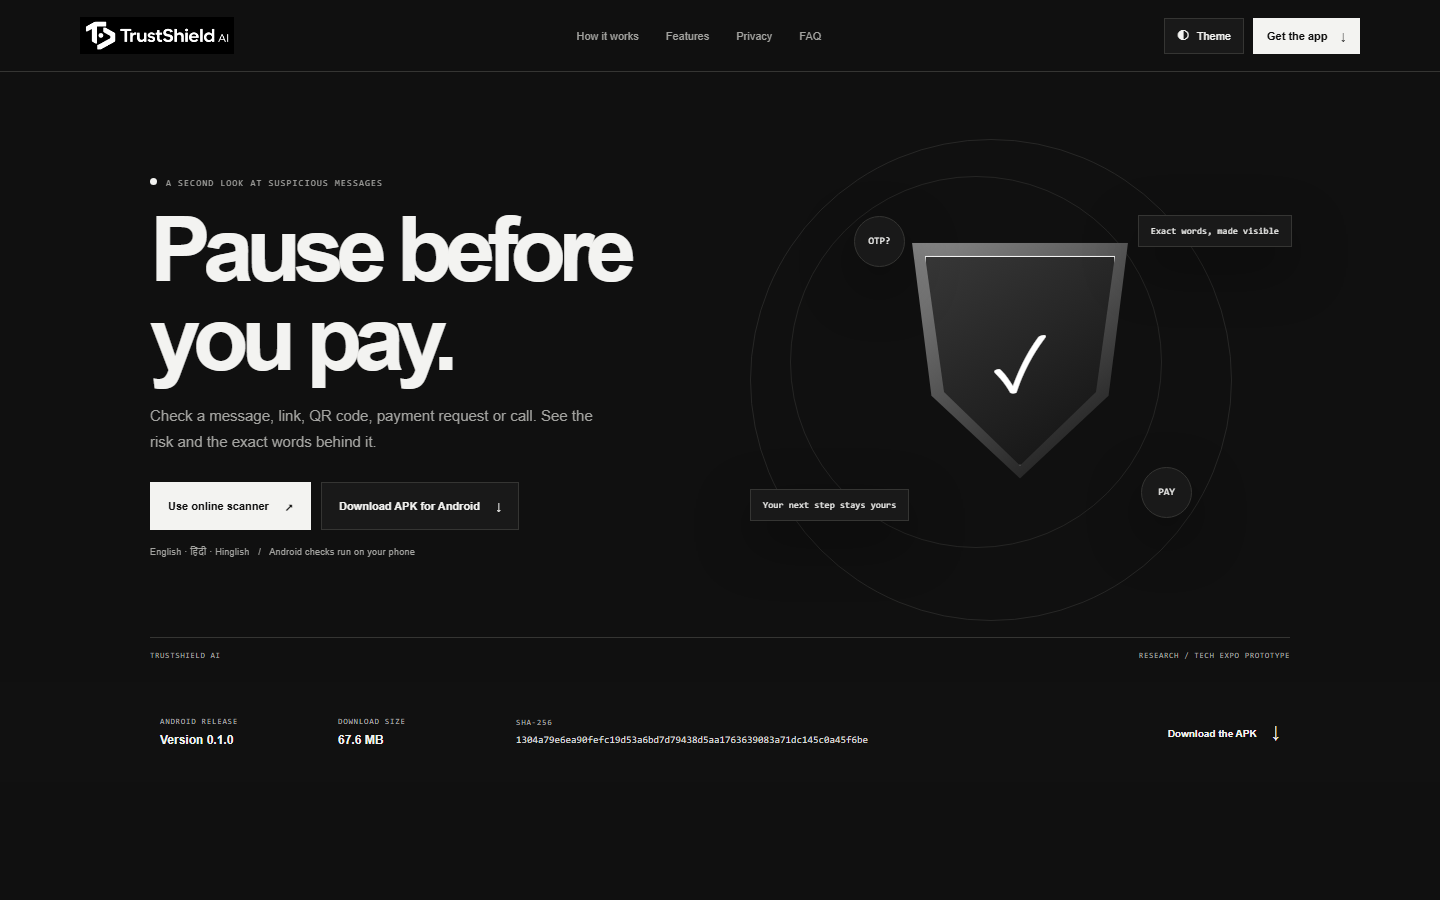
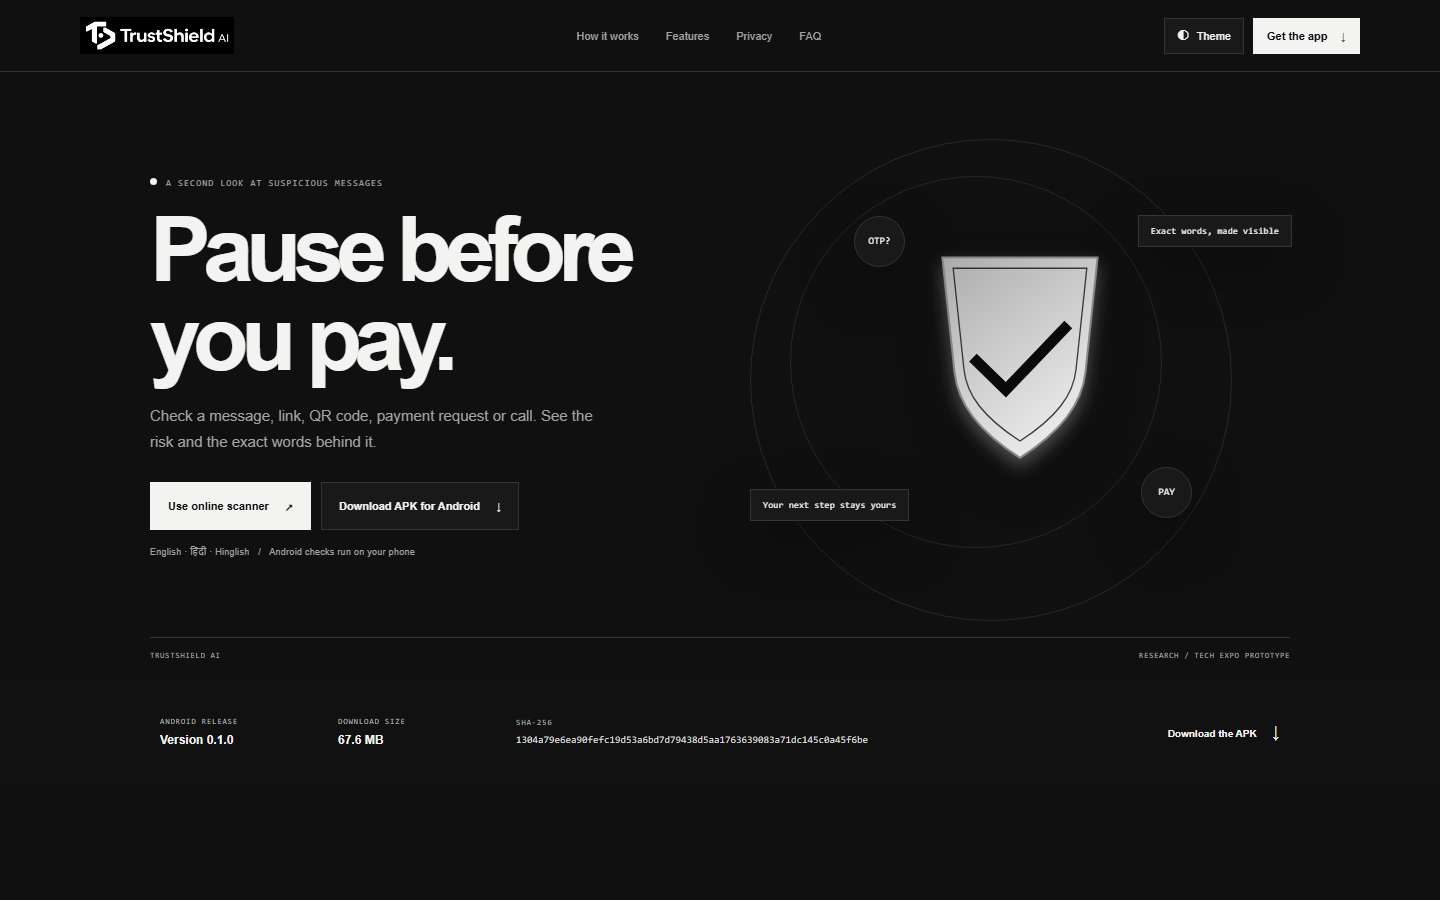
landing: preload static shield fallback

Changed region(s): [[0.625, 0.2489, 0.7812, 0.5289]]

diff --git a/apps/landing/app/globals.css b/apps/landing/app/globals.css
@@ -3,7 +3,7 @@ html[data-theme=dark]{color-scheme:dark;--paper:#101010;--surface:#191919;--ink:
 *{box-sizing:border-box}html{scroll-behavior:smooth;scroll-padding-top:84px}body{margin:0;background:var(--paper);color:var(--ink);font-family:var(--body);font-size:15px;-webkit-font-smoothing:antialiased}a{color:inherit;text-decoration:none}button{font:inherit;color:inherit}button,a,summary{-webkit-tap-highlight-color:transparent}button{cursor:pointer}img{max-width:100%}::selection{background:#bcbcb8;color:#111}:focus-visible{outline:3px solid var(--verdict);outline-offset:4px;border-radius:4px}.content-width{width:min(1120px,calc(100% - 56px));margin-inline:auto}
 .nav-shell{height:72px;padding:0 max(28px,calc((100vw - 1280px)/2));display:flex;align-items:center;justify-content:space-between;gap:24px;position:sticky;top:0;z-index:20;background:color-mix(in srgb,var(--paper) 88%,transparent);backdrop-filter:blur(14px);border-bottom:1px solid var(--line)}.brand{display:flex;align-items:center;flex-shrink:0}.brand img{display:block;width:154px;height:auto;filter:grayscale(1) contrast(1.2)}html[data-theme=dark] .brand img{filter:grayscale(1) invert(1) contrast(1.2)}.desktop-nav{display:flex;align-items:center;justify-content:center;gap:27px;flex:1}.desktop-nav a{font-size:11px;color:var(--muted);transition:color .2s}.desktop-nav a:hover{color:var(--ink)}.nav-actions{display:flex;align-items:center;gap:9px}.theme-toggle{height:36px;padding:0 12px;border:1px solid var(--line);background:var(--surface);display:flex;align-items:center;gap:7px;font-size:11px}.theme-toggle>span:first-child{font-size:15px}.nav-download{height:36px;padding:0 14px;background:var(--ink);color:var(--paper);display:flex;align-items:center;gap:13px;font-size:11px;font-weight:700}
 .hero{min-height:610px;max-width:1280px;margin:auto;position:relative;display:grid;grid-template-columns:1fr .9fr;align-items:center;padding:45px 70px 64px;overflow:hidden}.hero:before{content:"";position:absolute;right:10%;top:11%;width:480px;height:480px;border:1px solid var(--line);border-radius:50%;opacity:.62}.hero:after{content:"";position:absolute;right:15.5%;top:17%;width:370px;height:370px;border:1px solid var(--line);border-radius:50%;opacity:.56;pointer-events:none}.hero-copy{position:relative;z-index:2;max-width:590px}.eyebrow{margin:0 0 17px;text-transform:uppercase;font-family:var(--mono);font-size:9px;letter-spacing:.12em;color:var(--muted)}.live-dot{width:7px;height:7px;display:inline-block;border-radius:50%;background:var(--ink);margin-right:9px;vertical-align:1px}.hero h1{max-width:590px;font-size:clamp(52px,7.4vw,91px);letter-spacing:-.085em;line-height:.98;margin:0 0 20px;font-weight:600}.hero-lede{font-size:15px;line-height:1.75;color:var(--muted);max-width:470px;margin:0}.hero-actions{display:flex;flex-wrap:wrap;gap:10px;margin-top:27px}.button{min-height:48px;padding:0 17px;display:inline-flex;align-items:center;justify-content:center;gap:16px;font-size:11px;font-weight:700;transition:transform .18s,background .18s,color .18s,border-color .18s}.button:hover{transform:translateY(-2px)}.button-primary{background:var(--ink);color:var(--paper);border:1px solid var(--ink)}.button-primary:hover{background:#454545;border-color:#454545;color:white}.button-secondary{background:var(--surface);border:1px solid var(--line)}.button-secondary:hover{border-color:var(--ink)}.hero-note{margin:15px 0 0;font-size:9px;color:var(--muted);letter-spacing:.03em}.hero-note span{padding:0 6px}.hero-art{height:470px;position:relative;z-index:1;display:grid;place-items:center;transform:translateY(var(--scroll-shift,0px))}.hero-label{position:absolute;z-index:4;padding:10px 12px;background:var(--surface);border:1px solid var(--line);box-shadow:var(--shadow);font:9px var(--mono);letter-spacing:.02em}.label-one{right:-2px;top:82px}.label-two{left:0;bottom:82px}.hero-bottomline{position:absolute;left:70px;right:70px;bottom:22px;padding-top:13px;border-top:1px solid var(--line);display:flex;justify-content:space-between;color:var(--muted);font:8px var(--mono);letter-spacing:.08em;text-transform:uppercase}
-.shield-visual{width:min(100%,430px);height:420px;position:relative;perspective:900px;transition:transform .15s ease-out}.shield-motion{position:absolute;inset:0;z-index:2;pointer-events:none}.three-canvas{position:absolute!important;inset:0!important;z-index:2}.css-shield{position:absolute;z-index:1;left:50%;top:50%;width:216px;height:236px;transform:translate(-50%,-53%);display:grid;place-items:center;clip-path:polygon(0 0,100% 0,91% 65%,50% 100%,9% 65%);background:linear-gradient(145deg,#888,#111);filter:drop-shadow(0 24px 25px #0003)}.css-shield:before{content:"";position:absolute;inset:13px;clip-path:polygon(0 0,100% 0,90% 65%,50% 100%,10% 65%);border:1px solid #fff;background:linear-gradient(145deg,#383838,#111)}.css-shield span{z-index:1;color:#fff;font-size:78px;font-weight:400}.css-bubble{position:absolute;z-index:3;width:51px;height:51px;border-radius:50%;display:grid;place-items:center;background:var(--surface);border:1px solid var(--line);color:var(--ink);font:10px var(--mono);box-shadow:var(--shadow)}.bubble-one{top:58px;left:49px}.bubble-two{right:43px;bottom:60px}.hero .three-canvas{pointer-events:none}
+.shield-visual{width:min(100%,430px);height:420px;position:relative;perspective:900px;transition:transform .15s ease-out}.shield-motion{position:absolute;inset:0;z-index:2;pointer-events:none}.three-canvas{position:absolute!important;inset:0!important;z-index:2}.shield-fallback{position:absolute;z-index:1;left:50%;top:50%;width:216px;height:auto;transform:translate(-50%,-53%);filter:drop-shadow(0 24px 25px #0003);opacity:1;transition:opacity .2s}.three-active .shield-fallback{opacity:0}html[data-theme=dark] .shield-fallback{filter:grayscale(1) invert(1) drop-shadow(0 24px 25px #0003)}.css-bubble{position:absolute;z-index:3;width:51px;height:51px;border-radius:50%;display:grid;place-items:center;background:var(--surface);border:1px solid var(--line);color:var(--ink);font:10px var(--mono);box-shadow:var(--shadow)}.bubble-one{top:58px;left:49px}.bubble-two{right:43px;bottom:60px}.hero .three-canvas{pointer-events:none}
 .release-strip{min-height:100px;background:#111;color:#f3f3f1;display:grid;grid-template-columns:150px 150px 1fr auto;align-items:center;gap:28px;padding:18px max(28px,calc((100vw - 1120px)/2))}.release-item,.release-hash{display:flex;flex-direction:column;gap:7px;min-width:0}.release-kicker{font:8px var(--mono);letter-spacing:.1em;color:#aaa}.release-item strong{font-size:12px;font-weight:600}.release-hash code{font:10px var(--mono);color:#ddd;overflow-wrap:anywhere}.release-strip>a{font-size:10px;font-weight:700;white-space:nowrap}.release-strip>a span{font-size:17px;margin-left:12px}
 .intro-section{padding-block:116px 105px}.section-heading{max-width:620px}.section-heading h2,.sample-copy h2,.feature-intro h2,.language-section h2,.faq-section h2{font-size:clamp(38px,5vw,60px);line-height:1.02;letter-spacing:-.07em;font-weight:600;margin:0 0 16px}.section-heading>p:last-child,.sample-copy>p:not(.eyebrow),.feature-intro>p:last-child,.language-section>div>p:last-child{max-width:515px;color:var(--muted);font-size:12px;line-height:1.85;margin:0}.steps-grid{display:grid;grid-template-columns:repeat(3,1fr);margin-top:56px;border-top:1px solid var(--line)}.step-card{min-height:225px;position:relative;padding:19px 24px 18px 0;border-right:1px solid var(--line)}.step-card+.step-card{padding-left:24px}.step-card:last-child{border:0}.step-index,.feature-label,.screens-caption,.screen-count{font:8px var(--mono);letter-spacing:.1em;color:var(--muted)}.step-glyph{font-size:31px;font-weight:300;margin:27px 0 18px;line-height:1}.step-card h3,.feature-card h3{font-size:19px;letter-spacing:-.04em;margin:0 0 9px;font-weight:600}.step-card p,.feature-card p{color:var(--muted);font-size:11px;line-height:1.75;margin:0;max-width:290px}
 .screens-section{background:var(--soft);padding:104px 0 90px}.screens-head{display:flex;align-items:end;justify-content:space-between;gap:20px}.screens-head .section-heading{max-width:610px}.screens-caption{margin-bottom:5px;white-space:nowrap}.screens-caption span{padding:0 7px}.screens-showcase{display:grid;grid-template-columns:1fr .75fr;gap:12%;align-items:start;margin-top:40px;min-height:570px}.phone-column{display:flex;align-items:center;flex-direction:column;gap:20px;position:sticky;top:100px}.phone-frame{position:relative;width:268px;padding:10px;border:1px solid #898987;border-radius:34px;background:#080808;box-shadow:0 26px 80px #0003}.phone-notch{position:absolute;z-index:2;left:50%;top:11px;transform:translateX(-50%);width:84px;height:18px;background:#080808;border-radius:0 0 12px 12px}.phone-screen{overflow:hidden;border-radius:25px;background:#fff;height:475px}.phone-screen img{width:100%;height:100%;object-fit:cover;object-position:top;display:block}.screen-tabs{display:flex;justify-content:center;gap:5px;flex-wrap:wrap}.screen-tab{min-height:32px;padding:0 11px;background:transparent;border:1px solid transparent;color:var(--muted);font-size:9px}.screen-tab.active{background:var(--surface);border-color:var(--line);color:var(--ink)}.screen-details{max-width:360px}.screen-story{min-height:470px;display:flex;flex-direction:column;justify-content:center;border-bottom:1px solid var(--line);scroll-margin-top:105px}.screen-count{display:block;margin-bottom:23px}.screen-details h3{font-size:clamp(32px,4vw,48px);line-height:1.05;letter-spacing:-.07em;font-weight:600;margin:0 0 15px}.screen-details>p{font-size:12px;line-height:1.85;color:var(--muted);margin:0;max-width:350px}.screen-controls{display:flex;gap:7px;margin-top:31px}.screen-controls button{width:39px;height:39px;border:1px solid var(--line);background:var(--surface);font-size:17px}.screen-controls button:hover{border-color:var(--ink)}

diff --git a/apps/landing/app/shield-hero.tsx b/apps/landing/app/shield-hero.tsx
@@ -1,10 +1,12 @@
 "use client";
 
 import { Component, useEffect, useRef, useState, type ReactNode } from "react";
+import Image from "next/image";
 
-class SceneBoundary extends Component<{ children: ReactNode }, { failed: boolean }> {
+class SceneBoundary extends Component<{ children: ReactNode; onFailure: () => void }, { failed: boolean }> {
   state = { failed: false };
   static getDerivedStateFromError() { return { failed: true }; }
+  componentDidCatch() { this.props.onFailure(); }
   render() { return this.state.failed ? null : this.props.children; }
 }
 
@@ -59,10 +61,10 @@ export default function ShieldHero() {
     if (visual.current) visual.current.style.transform = "translate3d(0,0,0)";
   }
 
-  return <div className="shield-visual" onPointerMove={handlePointerMove} onPointerLeave={resetPointer}>
-    <div className="css-shield" aria-hidden="true"><span>✓</span></div>
+  return <div className={Scene ? "shield-visual three-active" : "shield-visual"} onPointerMove={handlePointerMove} onPointerLeave={resetPointer}>
+    <Image className="shield-fallback" src="/shield-static.svg" alt="" width={320} height={360} priority />
     <div className="css-bubble bubble-one" aria-hidden="true">OTP?</div>
     <div className="css-bubble bubble-two" aria-hidden="true">PAY</div>
-    <div ref={visual} className="shield-motion" aria-hidden="true">{Scene && <SceneBoundary><Scene /></SceneBoundary>}</div>
+    <div ref={visual} className="shield-motion" aria-hidden="true">{Scene && <SceneBoundary onFailure={() => setScene(null)}><Scene /></SceneBoundary>}</div>
   </div>;
 }
